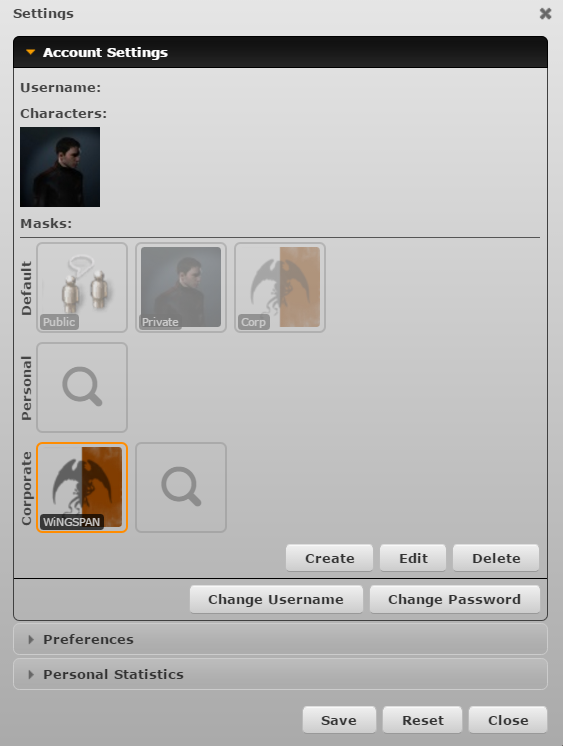
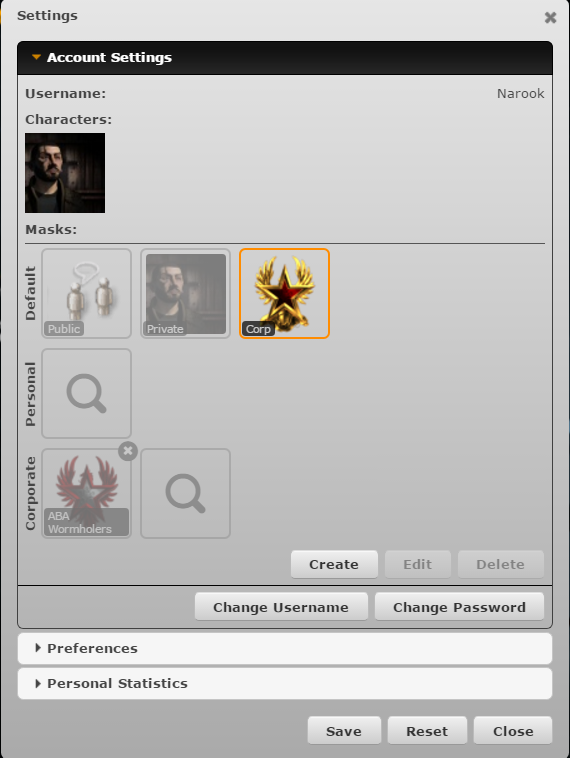
Make these documents LH specific

diff --git a/docs/tripwire_setup.md b/docs/tripwire_setup.md
@@ -2,19 +2,11 @@
 
 ## Registering
 
-If you don't have a Tripwire account, yet, please register at <https://tripwire.torpedodelivery.com/>. You will need to provide a username, a password and an API key. As with all 3rd party tools, please don't use the same password as your Eve account. It is also recommended that you choose a strong password and that it doesn't match with passwords from other 3rd party tools, for example other Tripwire servers. You can always change your password from `Settings`, in fact it's good practice to change it every once in a while. In case you lose your password, please contact your Tripwire admin. He won't be able to retrieve it for you, but he'll be able to reset it.
+If you don't have a Tripwire account, yet, please register at <https://tripwire.eve-apps.com/>. You will need to provide a username, a password and an API key. As with all 3rd party tools, please don't use the same password as your Eve account. It is also recommended that you choose a strong password and that it doesn't match with passwords from other 3rd party tools, for example other Tripwire servers. You can always change your password from `Settings`, in fact it's good practice to change it every once in a while. In case you lose your password, please contact your Tripwire admin. He won't be able to retrieve it for you, but he'll be able to reset it.
 
 The API key isn't stored on Tripwire, it's just a method of proving you are the owner of the account. You can even delete it after creating the account.
 
 There is also the option of signing in with EVE SSO, but only after creating a Tripwire account.
-
-## In-Game Browser (IGB)
-
-Tripwire is able to track your location through the in-game browser only if you've added `https://tripwire.torpedodelivery.com/*` to the *Trusted Sites* list in the browser's options.
-
-![Tripwire Trusted](img/tripwire_trusted.png)
-
-You can choose to either use this browser or minimize it and open Tripwire in an external browser (Chrome, Firefox, IE, others). The browsers will automatically synchronize. This is very useful for multiple-monitor setups.
 
 ## Tracking and Auto-Mapper
 
@@ -31,7 +23,7 @@ A mask is the collection of wormhole connections and signatures the members of t
 
 ![Tripwire Settings](img/tripwire_settings.png)
 
-Please select our alliance mask named `WiNGSPAN` as shown in the screenshot below:
+Please select our corporation mask named `Corp` as shown in the screenshot below:
 
 ![Tripwire Masks](img/tripwire_masks.png)
 

diff --git a/docs/tripwire_tips.md b/docs/tripwire_tips.md
@@ -160,16 +160,6 @@ You can modify the default background for Tripwire by going to `Settings` -> `Pr
 
 ![Tripwire Background](img/tripwire_background.png)
 
-If you prefer the old Tripwire background: <https://tripwire.torpedodelivery.com/images/bg_old.jpg>
-
-Other backgrounds made by our fellow alliance members:
-
-<https://tripwire.torpedodelivery.com/images/bg01.jpg>
-<https://tripwire.torpedodelivery.com/images/bg02.jpg>
-<https://tripwire.torpedodelivery.com/images/bg03.jpg>
-<https://tripwire.torpedodelivery.com/images/bg04.jpg>
-<https://tripwire.torpedodelivery.com/images/bg05.jpg>
-
 ### What now?
 
 Just go out there, explore and have fun. Now you know how to use Tripwire effectively :)

diff --git a/docs/index.md b/docs/index.md
@@ -1,4 +1,4 @@
-# Welcome to WDS Tripwire Wiki
+# Welcome to LH Tripwire Documentation
 
 Here you will find guides about Tripwire and wormholes in general.
 
@@ -18,4 +18,4 @@ Here you will find guides about Tripwire and wormholes in general.
 
 ## Contributing
 
-If you want to contribute to this wiki, please contact *Valtyr Farshield* on Slack. You can send pull requests here: <https://bitbucket.org/farshield/tripwire-wiki>
+If you want to contribute to this documentation, please contact *Marq Aideron*/*@narook* on Slack. You can send pull requests here: <https://github.com/maurerit/tripwire-docs>
